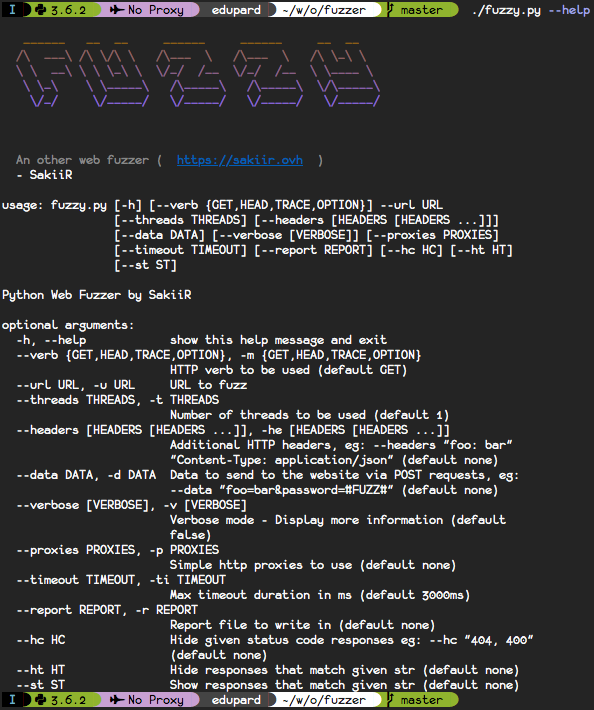
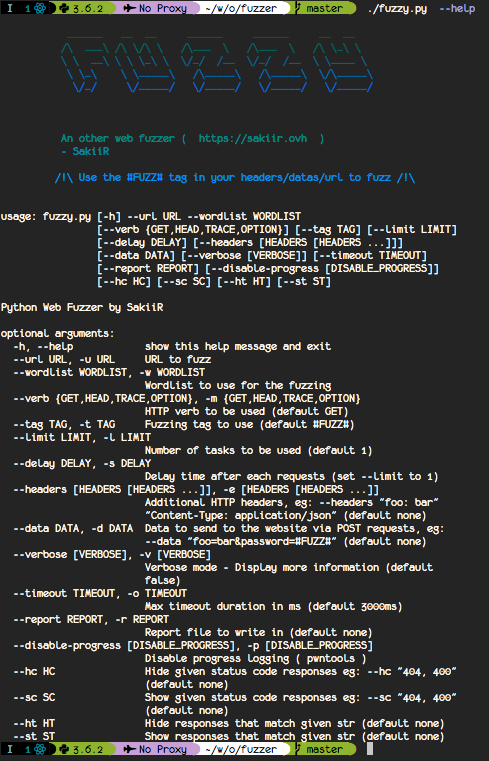
Fixed usage

Changed region(s): [[0.0, 0.0, 1.0, 1.0], [0.8282, 0.2169, 0.8589, 0.2479]]

diff --git a/README.md b/README.md
@@ -31,7 +31,10 @@ An effective fuzzer generates semi-valid inputs that are "valid enough" in that 
 * `./fuzzy.py --help`
 
 TODO: setup.py `pip install fuzzy`
+
 ## Usage
+
+![usage](./images/1.png)
 
 ```sh
 $ fuzzy --url 'http://localhost:8000/#FUZZ#' --wordlist '~/wordlists/rockyou.txt'
